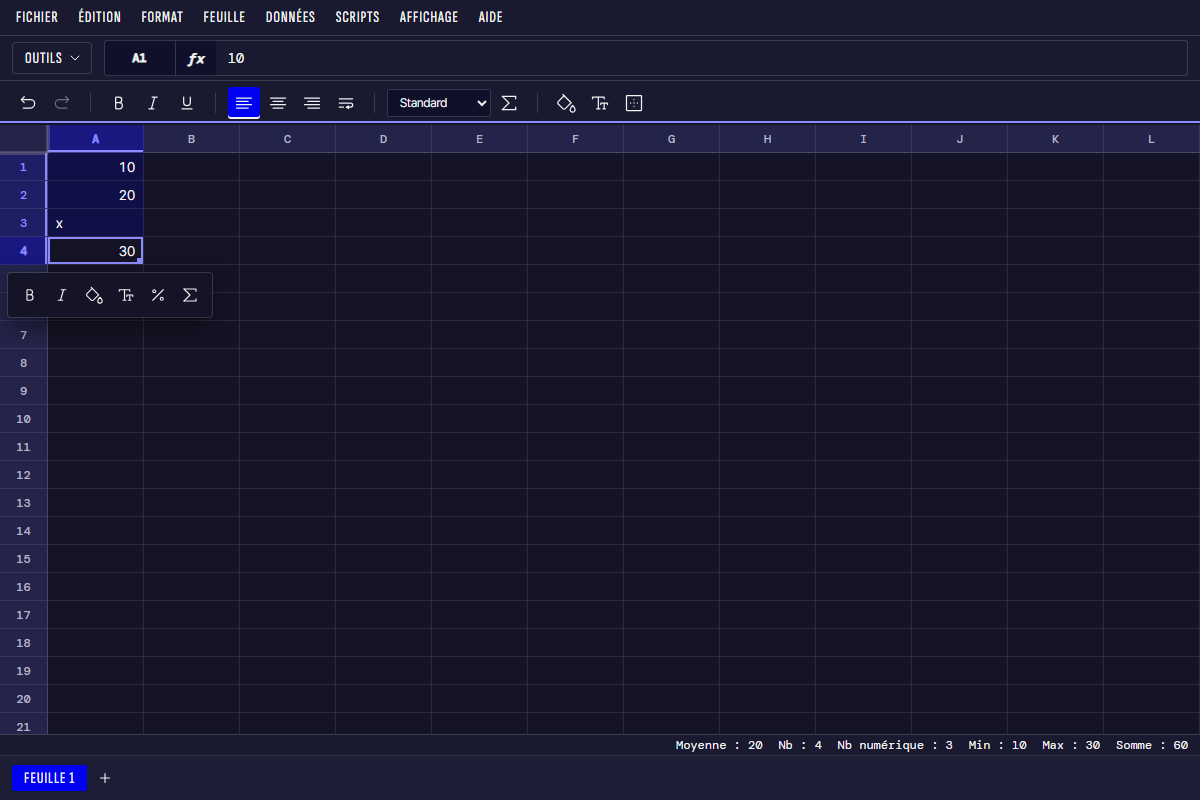
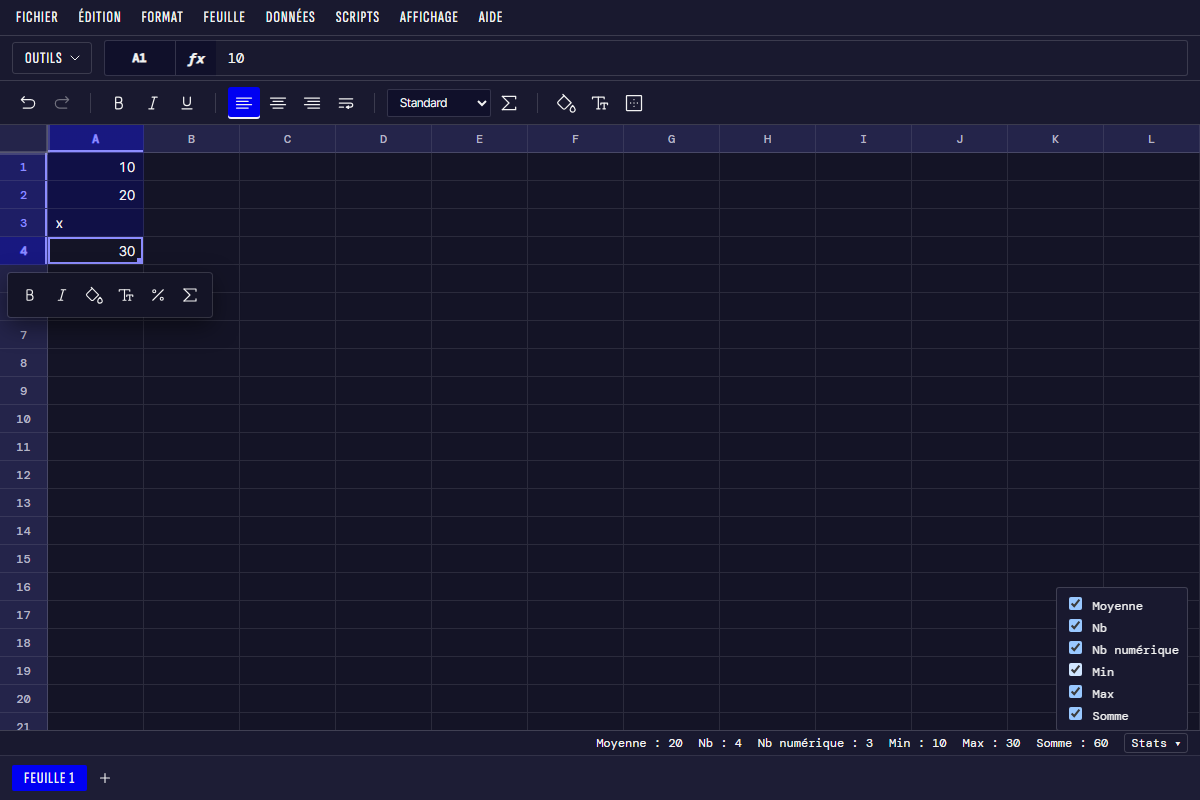
Boucle: implementation

Changed region(s): [[0.0, 0.125, 1.0, 0.1562], [0.4933, 0.75, 1.0, 0.9375], [0.0, 0.9062, 0.0617, 0.9375]]

diff --git a/src/ui/statusbar/statusbar.ts b/src/ui/statusbar/statusbar.ts
@@ -1,26 +1,65 @@
-/** Status bar: shows Moyenne / Nb / Nb numérique / Min / Max / Somme of a multi-cell selection. */
+/** Status bar: shows the chosen figures (Moyenne / Nb / Nb numérique / Min / Max / Somme) of a multi-cell selection. */
 import type { Value } from "../../engine/types";
-import { statItems } from "./stats";
+import { STAT_LABELS, statItems } from "./stats";
 
 export interface StatusBar { el: HTMLElement; update(cells: number, values: Value[]): void }
 
-/** Create the bar (hidden until `update` gets a selection of 2+ cells). */
+const KEY = "dk-table.statusbar";
+
+/** Entries chosen by the user (localStorage); all of them by default. */
+function load(): string[] {
+  try {
+    const v = JSON.parse(localStorage.getItem(KEY) ?? "null");
+    if (Array.isArray(v)) return STAT_LABELS.filter((l) => v.includes(l));
+  } catch { /* ignore */ }
+  return [...STAT_LABELS];
+}
+
+/** Create the bar (hidden until `update` gets a selection of 2+ cells); the "Stats" button opens a checkbox menu. */
 export function createStatusBar(): StatusBar {
   const el = document.createElement("div");
   el.className = "dk-status";
   el.setAttribute("role", "status");
   el.hidden = true;
-  return {
-    el,
-    update(cells, values) {
-      const items = statItems(cells, values);
-      el.hidden = !items.length;
-      el.replaceChildren(...items.map((i) => {
-        const s = document.createElement("span");
-        s.dataset.stat = i.label;
-        s.textContent = `${i.label} : ${i.value}`;
-        return s;
-      }));
-    },
+  let enabled = load();
+  let last: [number, Value[]] = [0, []];
+  let open = false;
+  const render = () => {
+    const items = statItems(last[0], last[1], enabled);
+    el.hidden = !statItems(last[0], last[1]).length;
+    const spans = items.map((i) => {
+      const s = document.createElement("span");
+      s.dataset.stat = i.label;
+      s.textContent = `${i.label} : ${i.value}`;
+      return s;
+    });
+    const btn = document.createElement("button");
+    btn.type = "button";
+    btn.className = "dk-status__btn";
+    btn.textContent = "Stats ▾";
+    btn.title = "Choisir les statistiques affichées";
+    btn.onclick = () => { open = !open; render(); };
+    const nodes: Node[] = [...spans, btn];
+    if (open) {
+      const menu = document.createElement("div");
+      menu.className = "dk-status__menu";
+      for (const l of STAT_LABELS) {
+        const lab = document.createElement("label");
+        const cb = document.createElement("input");
+        cb.type = "checkbox";
+        cb.checked = enabled.includes(l);
+        cb.dataset.statOpt = l;
+        cb.onclick = () => {
+          enabled = STAT_LABELS.filter((x) => (x === l ? cb.checked : enabled.includes(x)));
+          localStorage.setItem(KEY, JSON.stringify(enabled));
+          render();
+        };
+        lab.append(cb, ` ${l}`);
+        menu.append(lab);
+      }
+      nodes.push(menu);
+    }
+    el.replaceChildren(...nodes);
   };
+  return { el, update(cells, values) { last = [cells, values]; render(); } };
 }

diff --git a/src/ui/statusbar/stats.test.ts b/src/ui/statusbar/stats.test.ts
@@ -22,6 +22,9 @@ describe("statItems", () => {
     expect(l).toEqual(["Moyenne", "Nb", "Nb numérique", "Min", "Max", "Somme"]);
     expect(statItems(3, [1, 2, 3.5]).find((i) => i.label === "Somme")!.value).toBe("6,5");
   });
+  it("filters by enabled labels", () => {
+    expect(statItems(3, [1, 2, 3], ["Somme", "Max"]).map((i) => i.label)).toEqual(["Max", "Somme"]);
+  });
   it("only shows Nb when no number", () => {
     expect(statItems(2, ["a", "b"]).map((i) => i.label)).toEqual(["Nb"]);
   });
@@ -36,5 +39,20 @@ describe("createStatusBar", () => {
     expect(sb.el.querySelector('[data-stat="Somme"]')!.textContent).toContain("10");
     sb.update(1, [4]);
     expect(sb.el.hidden).toBe(true);
+  });
+  it("menu toggles entries and persists them", () => {
+    localStorage.clear();
+    const sb = createStatusBar();
+    sb.update(2, [4, 6]);
+    (sb.el.querySelector(".dk-status__btn") as HTMLElement).click();
+    const box = sb.el.querySelector('input[data-stat-opt="Somme"]') as HTMLInputElement;
+    expect(box.checked).toBe(true);
+    box.click();
+    expect(sb.el.querySelector('[data-stat="Somme"]')).toBeNull();
+    expect(JSON.parse(localStorage.getItem("dk-table.statusbar")!)).not.toContain("Somme");
+    const sb2 = createStatusBar();
+    sb2.update(2, [4, 6]);
+    expect(sb2.el.querySelector('[data-stat="Somme"]')).toBeNull();
+    expect(sb2.el.querySelector('[data-stat="Max"]')).not.toBeNull();
   });
 });

diff --git a/src/ui/statusbar/stats.ts b/src/ui/statusbar/stats.ts
@@ -15,8 +15,11 @@ export function selectionStats(values: Value[]): SelStats {
 
 const fmt = (n: number) => n.toLocaleString("fr-FR", { maximumFractionDigits: 10 });
 
-/** Labelled figures to display, in order; empty unless at least 2 cells are selected. */
-export function statItems(cells: number, values: Value[]): { label: string; value: string }[] {
+/** All selectable entries, in display order. */
+export const STAT_LABELS = ["Moyenne", "Nb", "Nb numérique", "Min", "Max", "Somme"];
+
+/** Labelled figures to display, in order; empty unless at least 2 cells are selected; `enabled` limits the labels. */
+export function statItems(cells: number, values: Value[], enabled: string[] = STAT_LABELS): { label: string; value: string }[] {
   if (cells < 2) return [];
   const s = selectionStats(values);
   const out: { label: string; value: string }[] = [];
@@ -24,5 +27,5 @@ export function statItems(cells: number, values: Value[]): { label: string; valu
   out.push({ label: "Nb", value: fmt(s.count) });
   if (s.numCount) out.push({ label: "Nb numérique", value: fmt(s.numCount) }, { label: "Min", value: fmt(s.min!) },
     { label: "Max", value: fmt(s.max!) }, { label: "Somme", value: fmt(s.sum!) });
-  return out;
+  return out.filter((i) => enabled.includes(i.label));
 }

diff --git a/e2e/feat-selstats.spec.ts b/e2e/feat-selstats.spec.ts
@@ -21,6 +21,11 @@ for (const [theme, label] of [["light", "clair"], ["dark", "sombre"]] as const) 
     await expect(bar.locator('[data-stat="Somme"]')).toContainText("60");
     await expect(bar.locator('[data-stat="Moyenne"]')).toContainText("20");
     await expect(bar.locator('[data-stat="Nb"]')).toContainText("4");
+    await bar.locator(".dk-status__btn").click();
+    await bar.locator('input[data-stat-opt="Min"]').uncheck();
+    await expect(bar.locator('[data-stat="Min"]')).toHaveCount(0);
+    await bar.locator('input[data-stat-opt="Min"]').check();
+    await expect(bar.locator('[data-stat="Min"]')).toHaveCount(1);
     await page.screenshot({ path: `${DIR}/statistiques-${label}.png` });
   });
 }

diff --git a/src/ui/statusbar/statusbar.css b/src/ui/statusbar/statusbar.css
@@ -2,3 +2,7 @@
 .dk-status { flex: none; display: flex; gap: 16px; justify-content: flex-end; padding: 2px 12px;
   font: var(--fs-sm) var(--font-mono); color: var(--c-text); background: var(--c-bg); border-top: 1px solid var(--c-line-strong); }
 .dk-status[hidden] { display: none; }
+.dk-status { position: relative; align-items: center; }
+.dk-status__btn { font: inherit; color: inherit; background: none; border: 1px solid var(--c-line-strong); border-radius: 3px; cursor: pointer; }
+.dk-status__menu { position: absolute; right: 12px; bottom: 100%; display: flex; flex-direction: column; gap: 2px; padding: 6px 8px;
+  background: var(--c-bg); border: 1px solid var(--c-line-strong); border-radius: 3px; }

diff --git a/docs/rapports/statistiques-de-selection-dans-la-barre-d-etat.md b/docs/rapports/statistiques-de-selection-dans-la-barre-d-etat.md
@@ -6,16 +6,18 @@ Visible : oui
 - `src/ui/statusbar/stats.ts` (pur : `selectionStats`, `statItems`), `statusbar.ts` (barre `.dk-status`), `statusbar.css`.
 - Branché dans `app.ts` (entre grille et onglets) et `appGrid.ts` `syncInfo` (mise à jour à chaque sélection / édition).
 - Moyenne, Nb, Nb numérique, Min, Max, Somme dès 2 cellules sélectionnées; sans nombre, seul Nb s'affiche.
+- Menu « Stats ▾ » (cases à cocher) choisit les entrées affichées; choix persisté (`dk-table.statusbar`, localStorage).
 - Tests d'abord : `statusbar/stats.test.ts`; e2e `e2e/feat-selstats.spec.ts`.
 
 ## Non fait
-- Rien
+- Rien (hors périmètre : `prototypes/oauth-sdk/pipeline.parallel.test.ts` échoue, test de timing sans lien)
 
 ## Preuves
-- Tests : ok (2026 tests)
+- Tests : ok (2102 tests verts, 1 échec de timing hors périmètre; tsc ok; e2e feat-selstats ok)
 - Captures : docs/screenshots/statistiques-de-selection-dans-la-barre-d-etat/statistiques-clair.png, statistiques-sombre.png
 
 ## Decisions
 - TODO coché à tort, fonctionnalité absente, donc implémentée.
 - Nb = cellules non vides; seuls les vrais nombres alimentent Somme/Moyenne/Min/Max.
 - Format fr-FR, 10 décimales max.
+- Entrées au choix par menu absentes, ajoutées en TDD (`statItems(..., enabled)`, menu dans `statusbar.ts`); par défaut les 6 cochées. Décision prise sans trancheur.
